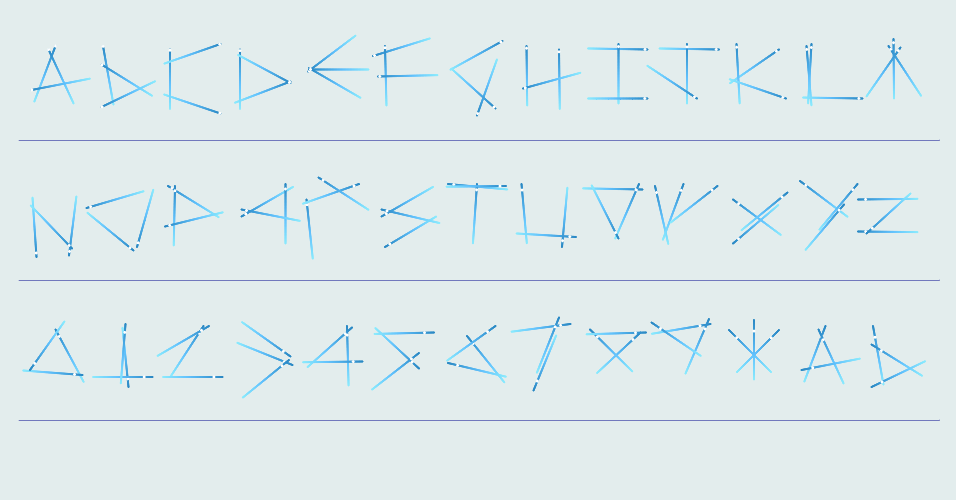
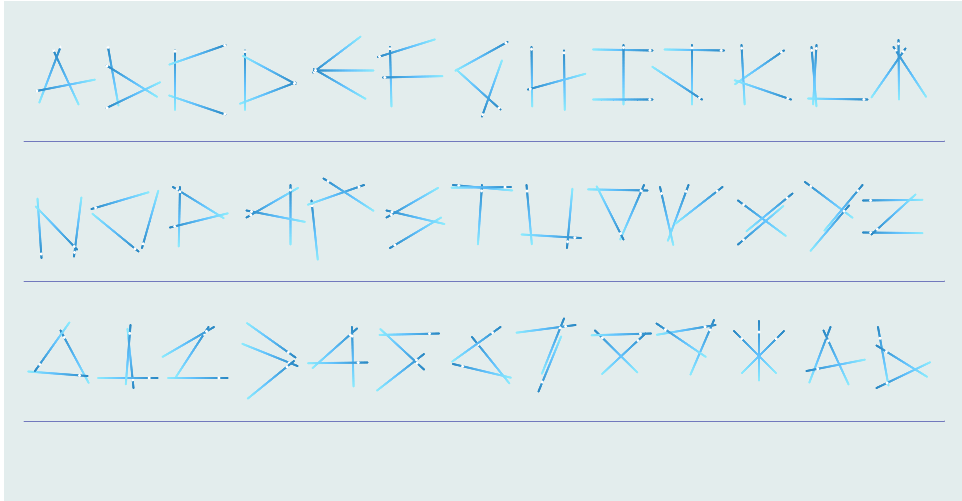
did some interpolating -- it's wrong, but pushing to save my progress

diff --git a/draw_letters.js b/draw_letters.js
@@ -20,7 +20,6 @@ let ballSpeed = 6;
 
 
  function drawLetter(letterData) {
- 	
   fill(colorFront);
   noStroke(0);
   calculateVectors(letterData["StartX1"],letterData["StartY1"], letterData["DirX1"], letterData["DirY1"] );
@@ -96,8 +95,85 @@ fill (r, g, b);
 //draw the circle!
 ellipse(xCompon, yCompon, 4,4);
 }
-
+//Percent will  range from  0-100,  and this  function  should  return  a new 
+//object  which is  in  between the oldData and newData.
 function interpolate_letter(percent, oldData, newData) {
+  //amount between 0 & 1.0
+  amount = percent/100;
+  oldStartPos1 = createVector(oldData["StartX1"], oldData["StartY1"] ); 
+  oldStartPos2 = createVector(oldData["StartX2"], oldData["StartY2"] ); 
+  oldStartPos3 = createVector(oldData["StartX3"], oldData["StartY3"] ); 
+  oldDirPos1 = createVector(oldData["DirX1"], oldData["DirY1"] ); 
+  oldDirPos2 = createVector(oldData["DirX2"], oldData["DirY2"] ); 
+  oldDirPos3 = createVector(oldData["DirX3"], oldData["DirY3"] ); 
+  newStartPos1 = createVector(newData["StartX1"], newData["StartY1"] ); 
+  newStartPos2 = createVector(newData["StartX2"], newData["StartY2"] ); 
+  newStartPos3 = createVector(newData["StartX3"], newData["StartY3"] ); 
+  newDirPos1 = createVector(newData["DirX1"], newData["DirY1"] ); 
+  newDirPos2 = createVector(newData["DirX2"], newData["DirY2"] ); 
+  newDirPos3 = createVector(newData["DirX3"], newData["DirY3"] );
+  //calculate & normalize the direction vector for the old & new lines
+  normalDirOld1 = CalculateNormalizedDir(oldStartPos1, oldDirPos1);
+  normalDirOld2 = CalculateNormalizedDir(oldStartPos2, oldDirPos2);
+  normalDirOld3 = CalculateNormalizedDir(oldStartPos3, oldDirPos3);
+  normalDirNew1 = CalculateNormalizedDir(newStartPos1, newDirPos1);
+  normalDirNew2 = CalculateNormalizedDir(newStartPos2, newDirPos2);
+  normalDirNew3 = CalculateNormalizedDir(newStartPos3, newDirPos3);
 
-  
+  for (i = 0; i < 100; i++) {
+    movementOld1 = CalculateMovementVector(normalDirOld1,i);
+    movementOld2 = CalculateMovementVector(normalDirOld2,i);
+    movementOld3 = CalculateMovementVector(normalDirOld3,i);
+    movementNew1 = CalculateMovementVector(normalDirNew1,i);
+    movementNew2 = CalculateMovementVector(normalDirNew2,i);
+    movementNew3 = CalculateMovementVector(normalDirNew3,i);
+    //make it start in the right place
+    posOldN1  = p5.Vector.add(oldStartPos1, movementOld1); 
+    posOldN2  = p5.Vector.add(oldStartPos2, movementOld2); 
+    posOldN3  = p5.Vector.add(oldStartPos3, movementOld3); 
+    posNewN1  = p5.Vector.add(newStartPos1, movementNew1); 
+    posNewN2  = p5.Vector.add(newStartPos2, movementNew2); 
+    posNewN3  = p5.Vector.add(newStartPos3, movementNew3);
+
+    lerped1 = CalculateLerp(posOldN1, posNewN1, amount);
+    lerped2 = CalculateLerp(posOldN2, posNewN2, amount);
+    lerped3 = CalculateLerp(posOldN3, posNewN3, amount);
+
+
+    //get the x & y components
+    xCompon1 = lerped1.x;
+    yCompon1 = lerped1.y;
+    xCompon2 = lerped2.x;
+    yCompon2 = lerped2.y;
+    xCompon3 = lerped3.x;
+    yCompon3 = lerped3.y;
+    drawFromLerp(xCompon1, yCompon1);
+    drawFromLerp(xCompon2, yCompon2);
+    drawFromLerp(xCompon3, yCompon3);
+  }
+}
+
+function CalculateNormalizedDir(startVec, dirVec) {
+  directionVector = p5.Vector.sub(dirVec, startVec); 
+  directionVector.normalize();
+  return directionVector;
+}
+
+function CalculateMovementVector(normalDirectionVector, i) {
+  movementVec = p5.Vector.mult(normalDirectionVector,(i*speed));
+  return movementVec;
+}
+
+function CalculateLerp(oldVector, newVector, amount) {
+  lerpedVec = p5.Vector.lerp(oldVector,newVector,amount)
+  return lerpedVec;
+}
+
+function drawFromLerp(xCompon, yCompon) {
+r++;
+g++;
+b++; 
+
+fill (r, g, b); 
+ellipse(xCompon, yCompon, 4,4);
 }

diff --git a/README.md b/README.md
@@ -5,3 +5,4 @@ A ball animation where the ball follows a trajectory set by the user using the s
 Initially I was calculating the equation of the line using y=mx+c but then i found that p5.js has vector methods so I changed it to use vectors(as this is much easier).
 I have put a lot of detail into the placement of the lines (trajectories) to make the shapes, as this has an impact on teh overall look since the orientation & overlapping of the lines makes a difference.
 
+I realised i was interpolating wrong - trying to redraw everything myself. Just pushing this then I'll fix it haha oops
